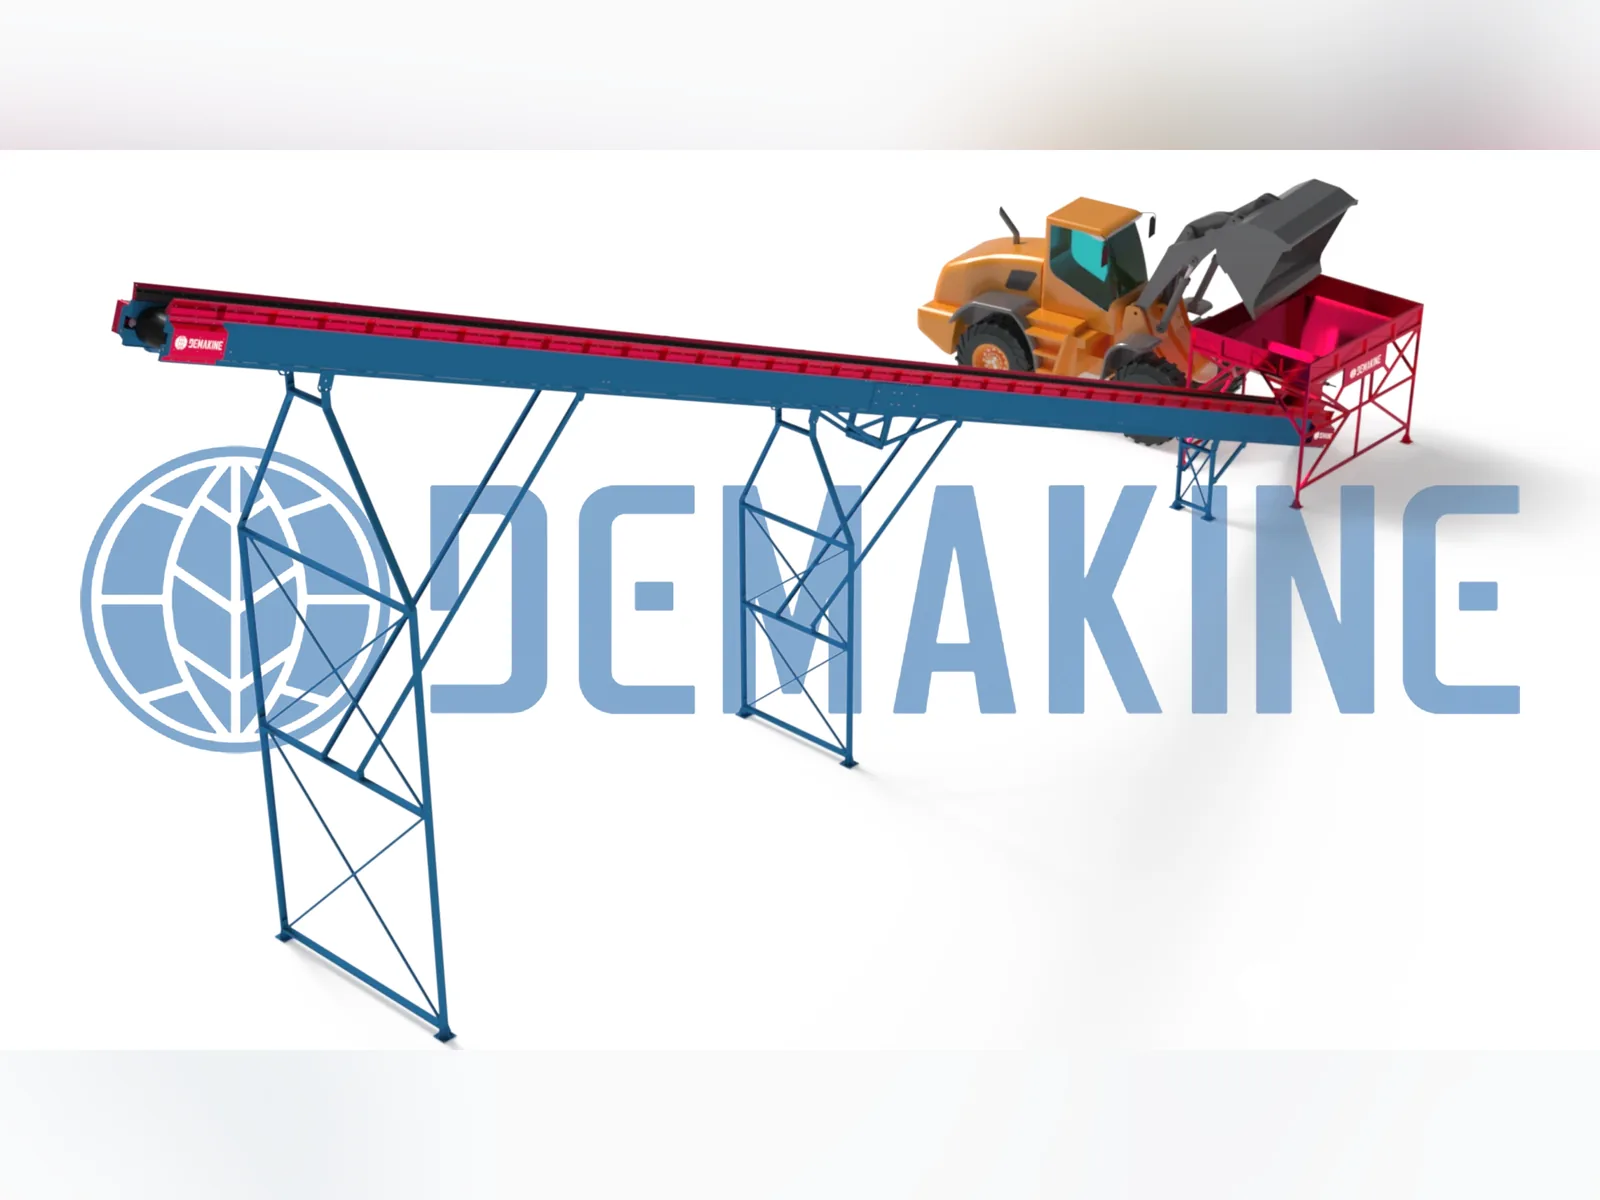
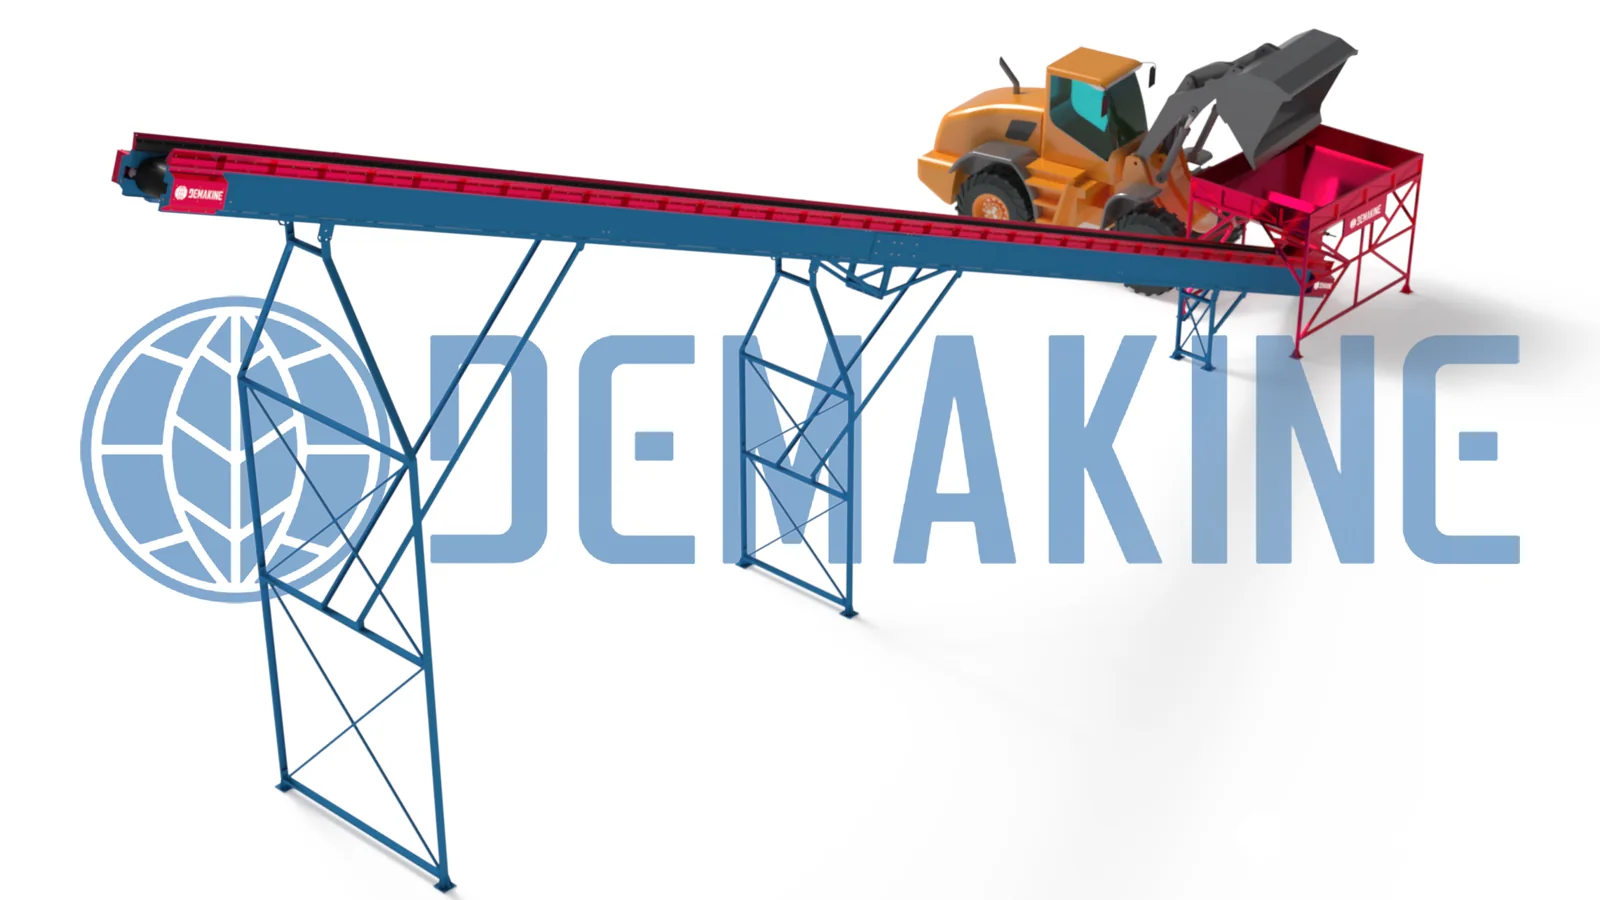
Projetos Especiais: cartões em 16:9 e renders no formato original, sem faixas desfocadas
- cenários largos preenchem o quadro; renders de fundo branco ficam inteiros, com borda esmaecida
- imagens regravadas a partir dos arquivos originais

diff --git a/packages/web/src/web/pages/projetos-especiais.tsx b/packages/web/src/web/pages/projetos-especiais.tsx
@@ -7,6 +7,7 @@ import { BtnPrimary, CtaBand, PageHero, Section, SectionHead } from "@/component
 import { projects as photoProjects } from "@/lib/content";
 import { segmentList } from "@/lib/segments";
 import { tr } from "@/lib/i18n";
+import { cn } from "@/lib/utils";
 
 const pillars = [
   {
@@ -79,6 +80,8 @@ const designProjects = [
   name,
   desc: DESIGN_DESC,
   images: [`/img/projetos-3d/${String(i + 1).padStart(2, "0")}.webp`],
+  // os 4 primeiros são cenários largos (cobrem o quadro 16:9); do quinto em diante o fundo é branco
+  fit: i < 4 ? ("cover" as const) : ("contain" as const),
 }));
 
 const FIRST_BATCH = 12;
@@ -184,14 +187,18 @@ export default function ProjetosEspeciais() {
                 onClick={() => setOpen({ slug: p.slug, index: 0 })}
                 className="group flex h-full w-full flex-col overflow-hidden rounded-2xl border border-dm-line bg-white text-left transition-all hover:-translate-y-1 hover:shadow-lg hover:shadow-dm-blue/10"
               >
-                <div className="relative aspect-[4/3] overflow-hidden bg-[#f7f7f7]">
+                <div className="relative aspect-[16/9] overflow-hidden bg-white">
                   <img
                     src={p.images[0]}
                     alt={p.name}
                     width={1600}
-                    height={1200}
+                    height={900}
                     loading="lazy"
-                    className="h-full w-full object-cover transition-transform duration-500 group-hover:scale-[1.04]"
+                    className={cn(
+                      "h-full w-full transition-transform duration-500 group-hover:scale-[1.04]",
+                      // cenários largos preenchem o quadro; renders de fundo branco ficam inteiros (o multiply funde o branco ao cartão)
+                      p.fit === "contain" ? "object-contain mix-blend-multiply" : "object-cover",
+                    )}
                   />
                   <span className="absolute right-3 top-3 flex h-8 w-8 items-center justify-center rounded-full bg-white/90 text-dm-blue opacity-0 transition-opacity group-hover:opacity-100">
                     <ArrowUpRight className="h-4 w-4" />
